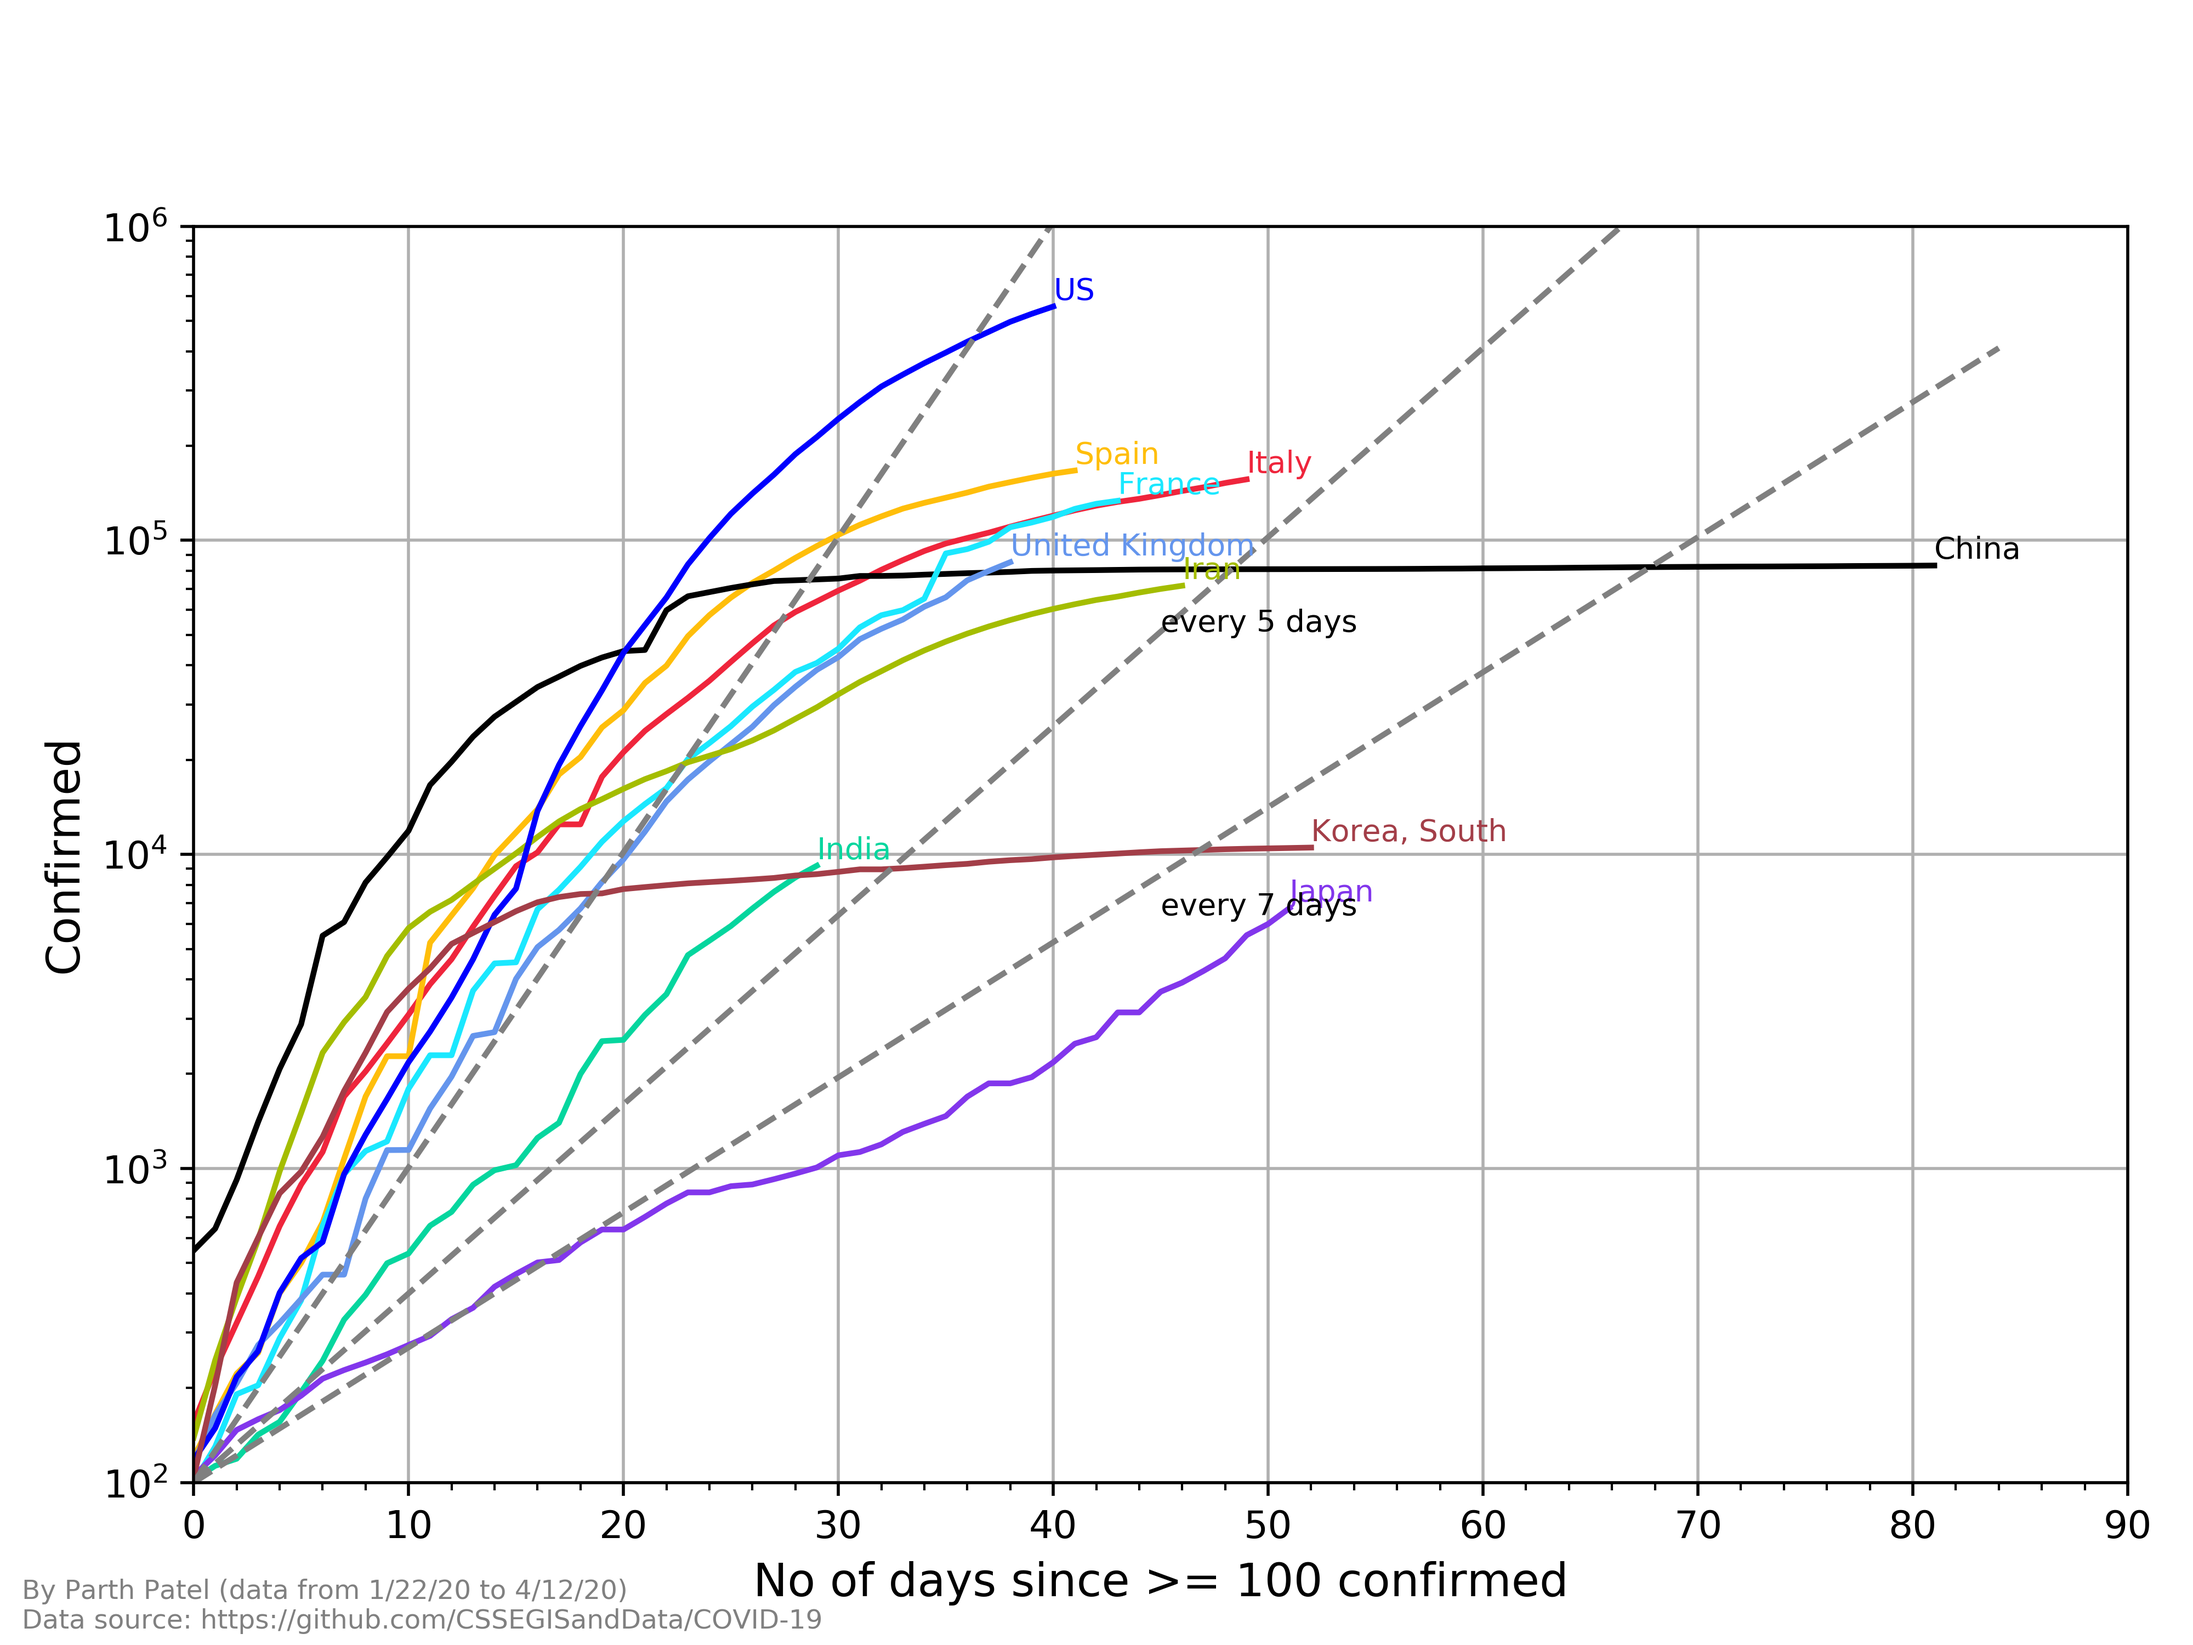
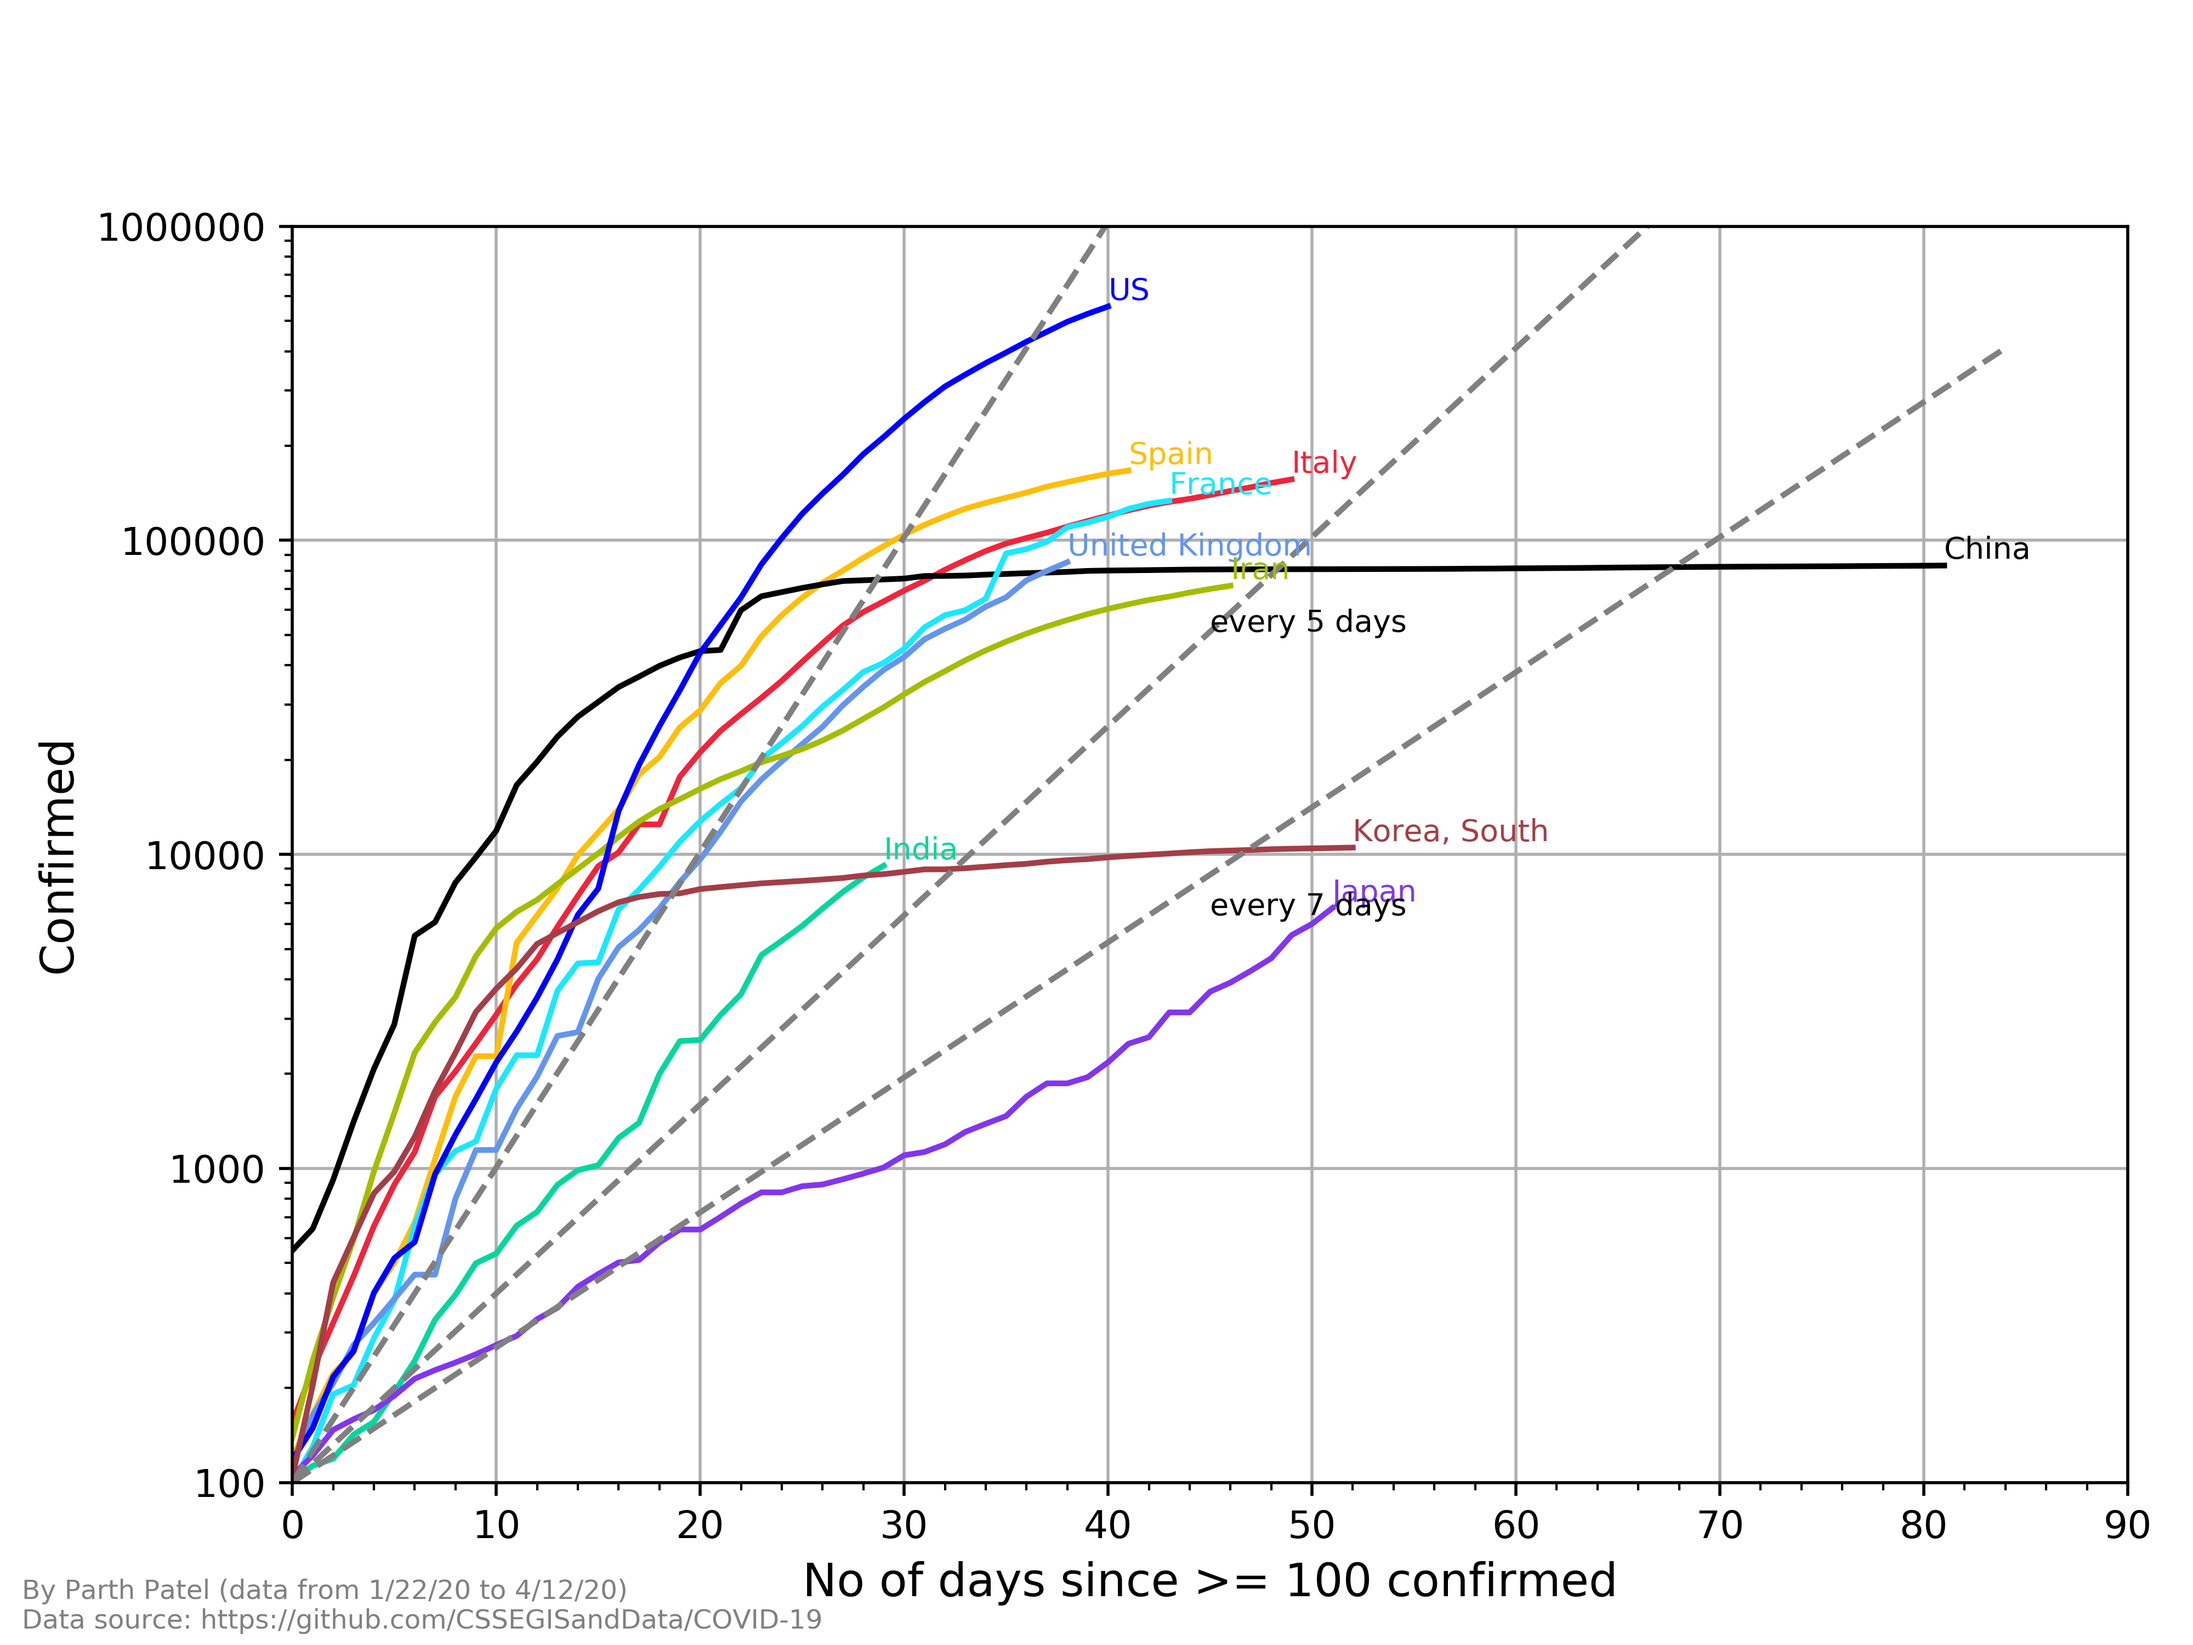
latest

diff --git a/plot.py b/plot.py
@@ -2,6 +2,8 @@ import numpy as np
 import matplotlib.pyplot as plt
 import csv
 
+plt.close('all')
+
 
 def doubling_plot(no_of_days, start, threshold, doubling_days):
     x = [i for i in range(start, no_of_days, doubling_days)]
@@ -12,7 +14,7 @@ def doubling_plot(no_of_days, start, threshold, doubling_days):
         if i % doubling_days == 0 and i != 0:
             y.append(2 * y[k-1])
         k += 1
-    # plt.figure()
+    # fig, ax = plt.subplots(figsize=(8, 6))
     plt.semilogy(x, y, ls='--', color='grey')
     plt.annotate(f'every {doubling_days} days',
                  (no_of_days/2, y[int(len(y)/2)]), fontsize=8)
@@ -163,7 +165,7 @@ plt.show()
 plt.savefig('recovered', dpi=500)
 
 # confirmed
-plt.figure(figsize=(8, 6))
+figure, ax = plt.subplots(figsize=(8, 6))
 k = 0
 for i in list_countries:
     plt.plot(first_confirmed_dict[i], label=i, color=color_list[k])
@@ -181,6 +183,7 @@ doubling_plot(no_of_days, 0, threshold_confirmed, 7)
 plt.xlim((0, no_of_days))
 plt.ylim((threshold_confirmed, 1e6))
 plt.yscale('log')
+ax.yaxis.set_major_formatter(plt.FormatStrFormatter('%d'))
 # plt.legend()
 plt.figtext(0.01, 0.01, f'By Parth Patel (data from {dates[0]:} to {dates[-1]}) \nData source: https://github.com/CSSEGISandData/COVID-19',
             horizontalalignment='left', fontsize=7, color='grey')
@@ -191,3 +194,85 @@ plt.grid(which='major', axis='both')
 plt.tight_layout()
 plt.show()
 plt.savefig('confirmed', dpi=500)
+
+# rise confirmed
+fig, ax = plt.subplots(figsize=(8, 6))
+k = 0
+for i in list_countries:
+    rise_day_by_day = np.diff(first_confirmed_dict[i])
+    plt.plot(rise_day_by_day, color=color_list[k], label=i)
+    plt.annotate(i, (len(rise_day_by_day)-1, rise_day_by_day
+                     [-1]+0.05*rise_day_by_day[-1]), color=color_list[k], fontsize=8)
+    plt.ylabel('Confirmed', fontsize=12)
+    plt.xlabel(
+        f'No of days since >= {threshold_confirmed} confirmed', fontsize=12)
+    k += 1
+plt.xlim((0, no_of_days))
+plt.ylim((threshold_confirmed, 5e3))
+plt.yscale('log')
+ax.yaxis.set_major_formatter(plt.FormatStrFormatter('%d'))
+# plt.legend()
+plt.figtext(0.01, 0.01, f'By Parth Patel (data from {dates[0]:} to {dates[-1]}) \nData source: https://github.com/CSSEGISandData/COVID-19',
+            horizontalalignment='left', fontsize=7, color='grey')
+plt.minorticks_on()
+plt.grid(which='major', axis='both')
+# plt.grid(which='minor', axis='both')
+
+plt.tight_layout()
+plt.show()
+plt.savefig('rise_confirmed', dpi=500)
+
+# rise recovered
+threshold_recovered = 1
+fig, ax = plt.subplots(figsize=(8, 6))
+k = 0
+for i in list_countries:
+    rise_day_by_day = np.diff(first_recovered_dict[i])
+    plt.plot(rise_day_by_day, color=color_list[k], label=i)
+    plt.annotate(i, (len(rise_day_by_day)-1, rise_day_by_day
+                     [-1]+0.05*rise_day_by_day[-1]), color=color_list[k], fontsize=8)
+    plt.ylabel('Recovered', fontsize=12)
+    plt.xlabel(
+        f'No of days since >= {threshold_recovered} recovered', fontsize=12)
+    k += 1
+plt.xlim((0, no_of_days))
+plt.ylim((threshold_recovered, 9e3))
+plt.yscale('log')
+ax.yaxis.set_major_formatter(plt.FormatStrFormatter('%d'))
+# plt.legend()
+plt.figtext(0.01, 0.01, f'By Parth Patel (data from {dates[0]:} to {dates[-1]}) \nData source: https://github.com/CSSEGISandData/COVID-19',
+            horizontalalignment='left', fontsize=7, color='grey')
+plt.minorticks_on()
+plt.grid(which='major', axis='both')
+# plt.grid(which='minor', axis='both')
+
+plt.tight_layout()
+plt.show()
+plt.savefig('rise_recovered', dpi=500)
+
+# rise_death
+fig, ax = plt.subplots(figsize=(8, 6))
+k = 0
+for i in list_countries:
+    rise_day_by_day = np.diff(first_death_dict[i])
+    plt.plot(rise_day_by_day, color=color_list[k], label=i)
+    plt.annotate(i, (len(rise_day_by_day)-1, rise_day_by_day
+                     [-1]+0.05*rise_day_by_day[-1]), color=color_list[k], fontsize=8)
+    plt.ylabel('Death', fontsize=12)
+    plt.xlabel(
+        f'No of days since >= {threshold_death} death', fontsize=12)
+    k += 1
+plt.xlim((0, no_of_days))
+plt.ylim((threshold_death, 3e3))
+plt.yscale('log')
+ax.yaxis.set_major_formatter(plt.FormatStrFormatter('%d'))
+# plt.legend()
+plt.figtext(0.01, 0.01, f'By Parth Patel (data from {dates[0]:} to {dates[-1]}) \nData source: https://github.com/CSSEGISandData/COVID-19',
+            horizontalalignment='left', fontsize=7, color='grey')
+plt.minorticks_on()
+plt.grid(which='major', axis='both')
+# plt.grid(which='minor', axis='both')
+
+plt.tight_layout()
+plt.show()
+plt.savefig('rise_death', dpi=500)
